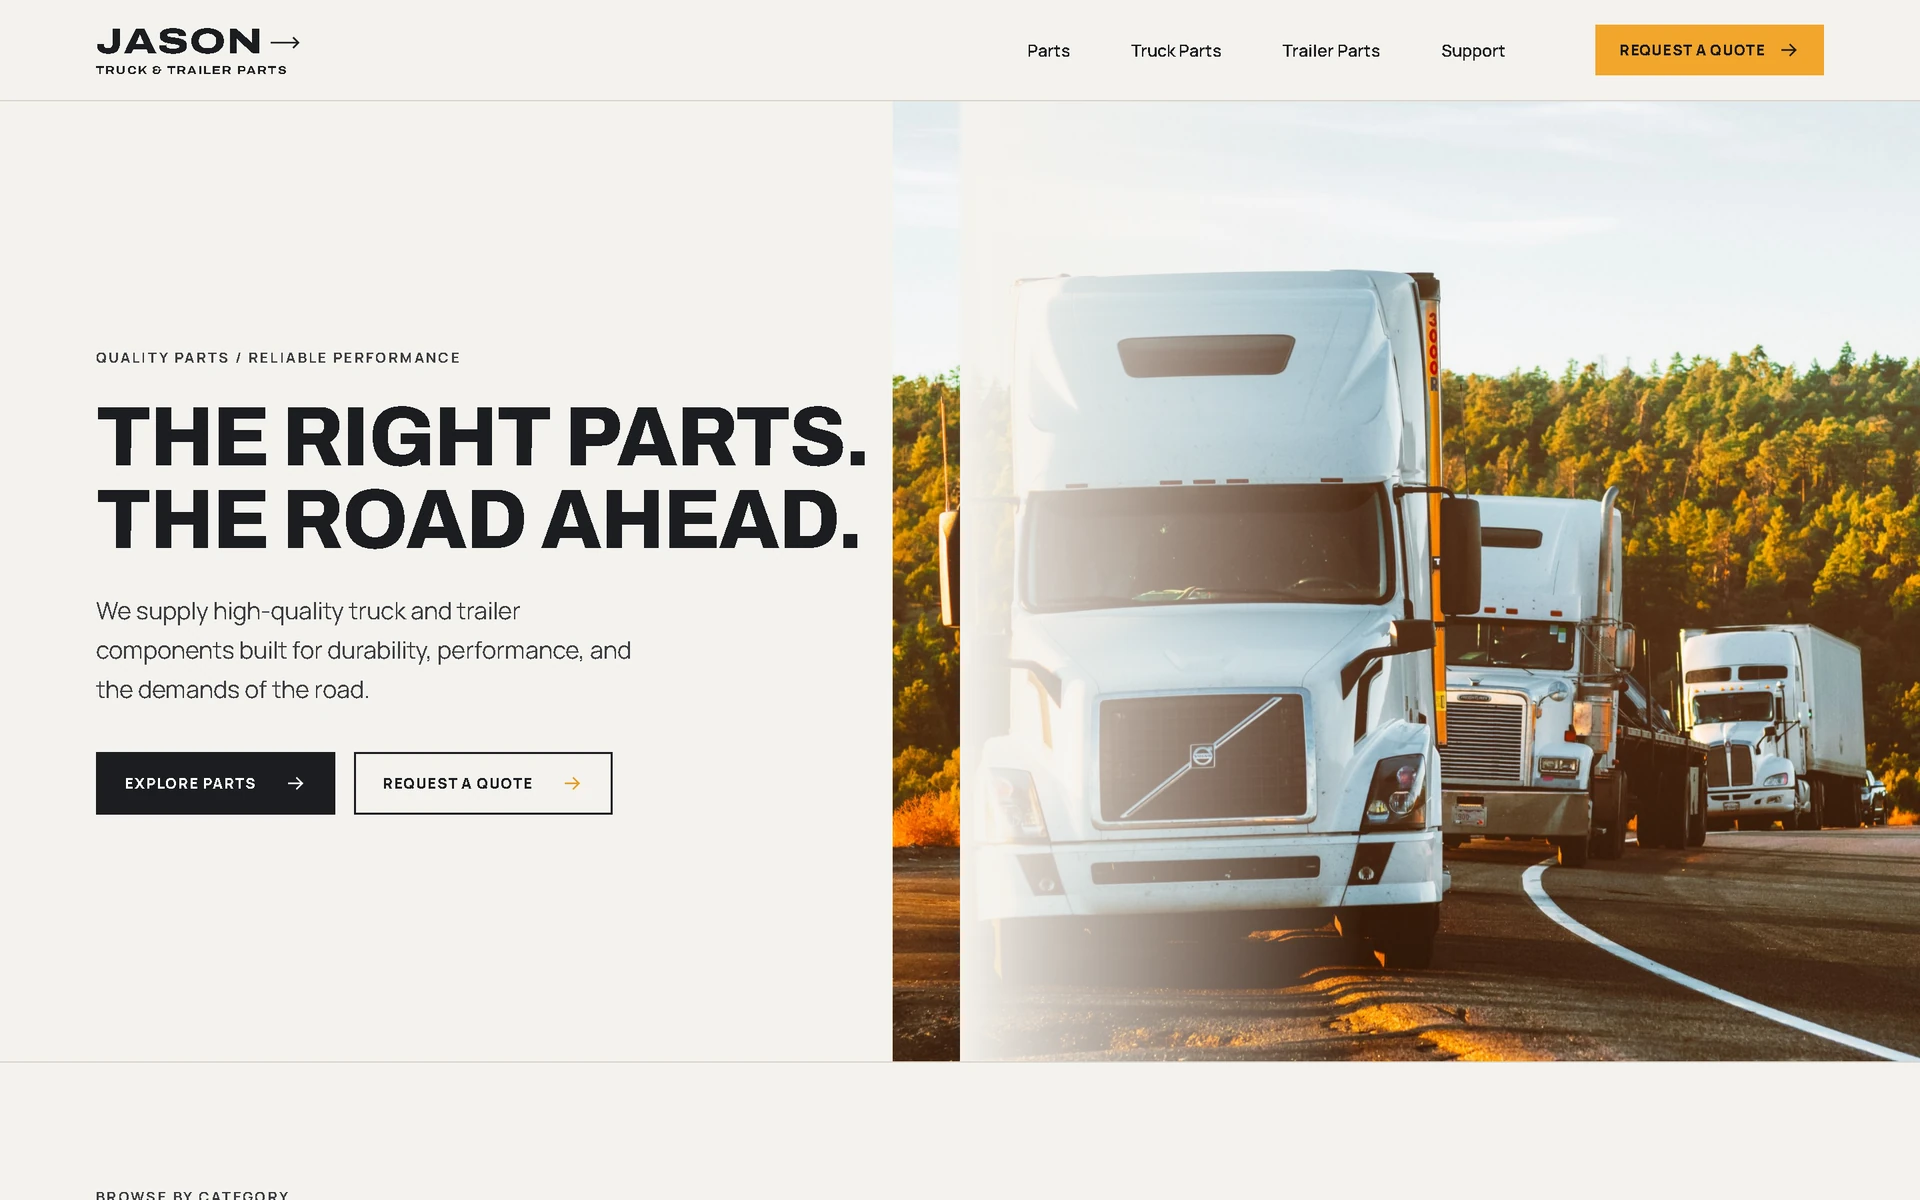
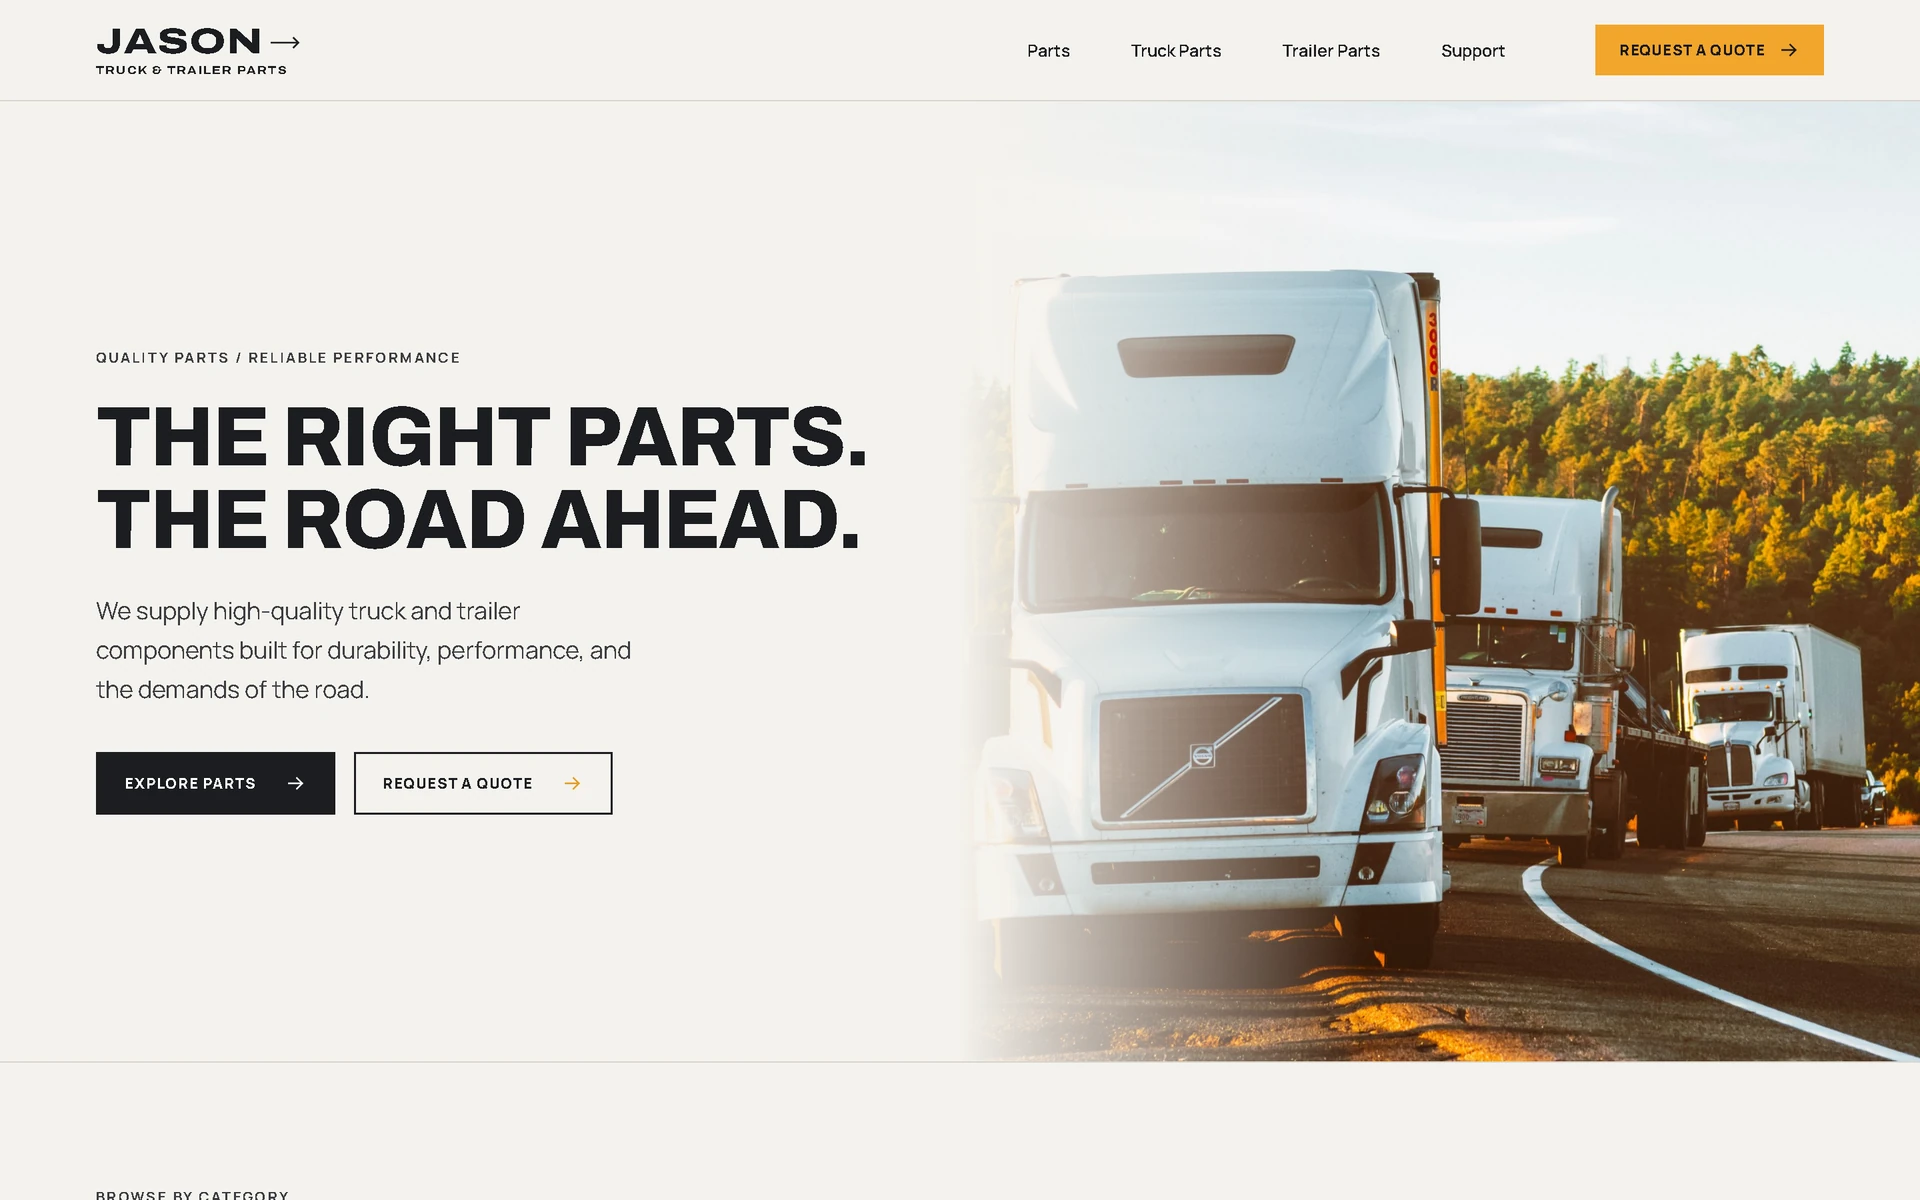
Fix Design 2 hero photo edge showing past the fade
The parallax zoom scales the hero photo beyond its box, so its left edge
sat outside the white fade overlay. Clip the photo to its box and refresh
the Design 2 home page preview.

Changed region(s): [[0.4375, 0.3083, 0.5, 0.8942]]

diff --git a/src/app/design-two.css b/src/app/design-two.css
@@ -27,7 +27,7 @@
 .ob-hero h1{font-weight:800;font-stretch:96%;font-size:clamp(42px,4.4vw,66px);line-height:.98;text-transform:uppercase;margin:22px 0 22px;letter-spacing:-.015em;white-space:nowrap}
 .ob-hero p{color:#3b3d40;font-size:clamp(15.5px,1.3vw,18px);max-width:420px;margin-bottom:32px}
 .ob-actions{display:flex;flex-wrap:wrap;gap:14px}
-.ob-hero-media{position:relative}
+.ob-hero-media{position:relative;overflow:hidden}
 .ob-hero-media img{position:absolute;inset:0;width:100%;height:100%;object-fit:cover;object-position:center 60%}
 .ob-hero-media::before{content:"";position:absolute;inset:0;z-index:1;background:linear-gradient(90deg,var(--bg) 0%,#f4f2ed99 18%,#f4f2ed00 42%)}
 
